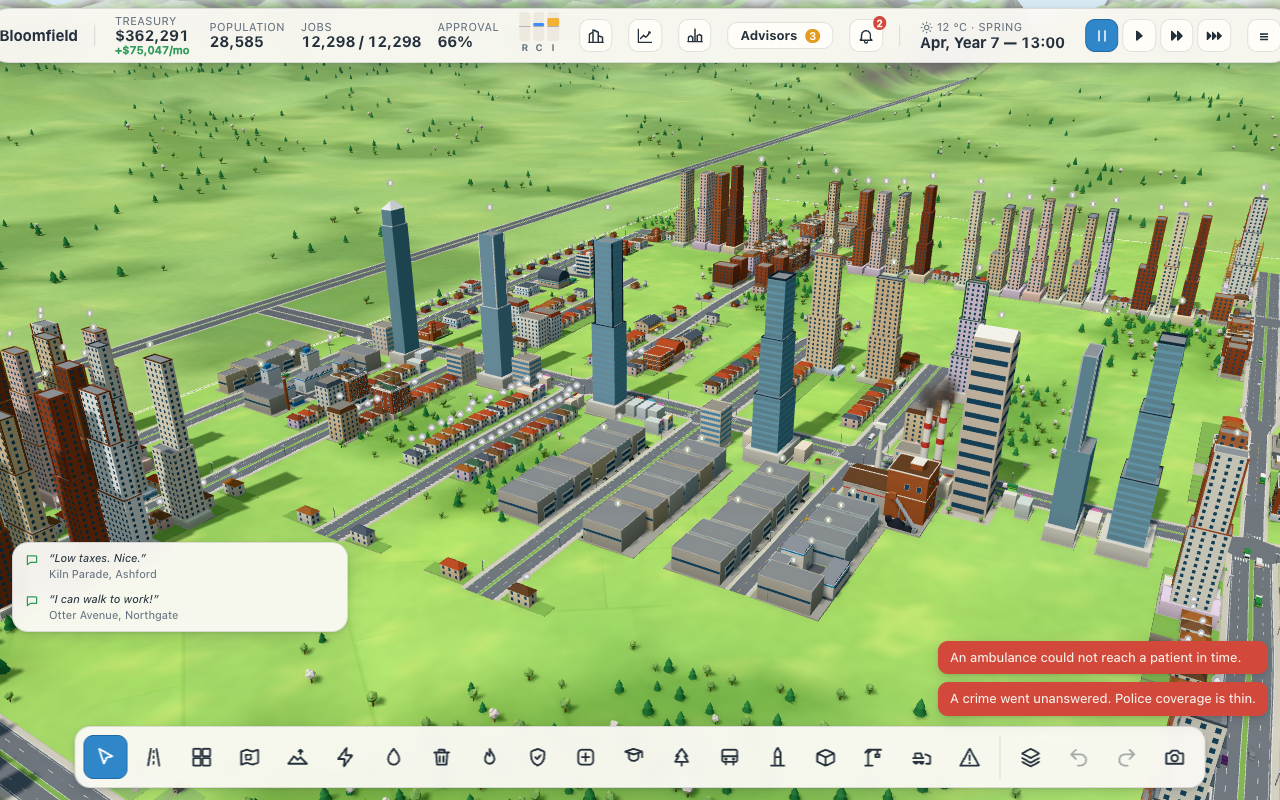
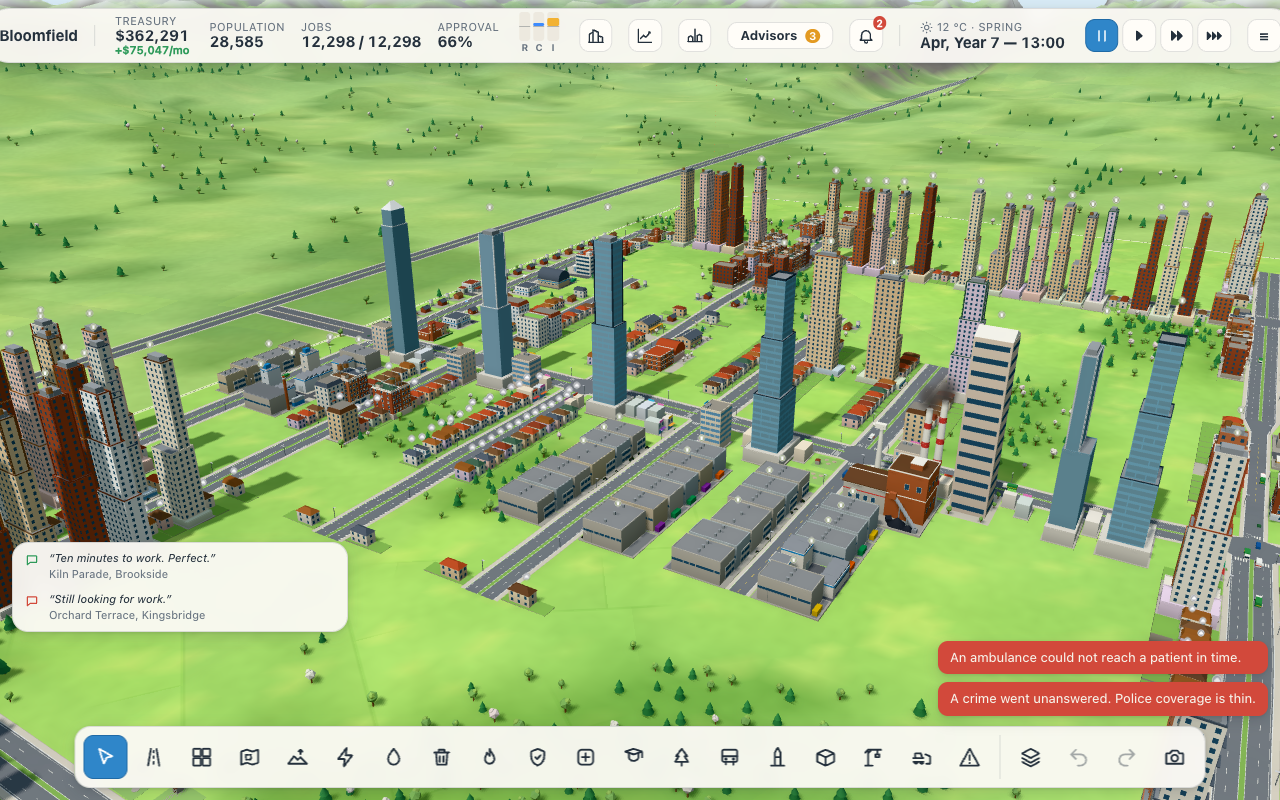
M28 complete: buildings and variety. Every building, generated ones included, fades through far and skyline versions; the generator refreshed (five tower silhouettes, crowns and spires, balcony bands, mansards, cornices, turrets, saltbox houses, false fronts, homes in more colours); the type in the 

diff --git a/PROGRESS.md b/PROGRESS.md
@@ -31,7 +31,7 @@ merges it into `main`, which deploys the live site at https://pxwom6.github.io/C
 - [x] M25 Baseline and model pipeline
 - [x] M26 Light and sky
 - [x] M27 Ground, lots and streets
-- [ ] M28 Buildings and variety
+- [x] M28 Buildings and variety
 
 ## Summary
 Citybloom is a complete, playable city builder in the browser. From the main menu (over a living
@@ -76,6 +76,20 @@ review after phase 2 retuned the late-game money, added a placeable regional rai
 cities, a grace for cities meeting seasons for the first time, and level-crossing barriers and
 trams that give way (DECISIONS, "Phase 2 review").
 
+**Phase 3 (graphics, M25–M28)** made it look the part without touching the simulation. The owner's
+hand-made building models (136 so far: every zoned type, 46 civic buildings, annexes) are checked
+against their spec, converted at build time and stand in wherever they fit, painted from the game's
+palettes, with far and skyline versions that fade in by a dither (M25). Light and sky: cascaded
+shadows fitted to the ground in view, soft occlusion in corners, a glow round lit windows at night,
+golden and blue hours, bounce light and haze, Neutral tone mapping (M26). Ground, lots and streets:
+grass with fields, hedgerows and worn paths, empty zoned land as a faint tint and outline, kerbs,
+zebra crossings, benches, bins and planters, and car parks, lawns and yards behind buildings (M27).
+Buildings: every generated building now has distant versions too, and the generator was refreshed
+(five tower silhouettes, crowns, spires, balcony bands, mansards, cornices, more colours) so no two
+neighbours look alike (M28). Every effect has a switch in the graphics quality. On an M5 MacBook
+Pro the heaviest view (the 110k city at night at 3× with a tornado) takes 9.2 ms a frame at High,
+against 22 at the start of the phase; the whole-city view draws 1.7M triangles where it drew 2.7M.
+
 ## Ideas for what's next
 1. **Real-hardware pass**: the rest of the list under "To check on the Mac" (the 100k city runs at
    60 fps and more on an M5 MacBook Pro, so per-building LOD isn't needed).
@@ -91,23 +105,20 @@ trams that give way (DECISIONS, "Phase 2 review").
    (ski resorts in winter, beaches in summer).
 7. **More specialisations** (education hub, gambling/entertainment, electronics) using the same
    building + economy pattern as M10.
-8. **Custom glTF models** through the existing asset registry (`src/render/assets/registry.ts`).
+8. **More hand-made models**: 8 m wide family houses and villas and 16 m versions of the 24 m
+   level-2 and -3 buildings would let models stand on the lots buildings actually grow on (PROGRESS,
+   "Models"); a procedural window shader would let distant homes' windows merge too.
 9. **Balance**: commercial demand runs a little low in small towns; the big-city running costs and
    the scenario star thresholds want a second look once real players have tried them.
 
 ## In progress
-M28 (buildings and variety) is next: every model in, the generator refreshed in the same style
-(more roof shapes, facade details and tower silhouettes), a distant version for every building
-including generated ones, and the whole-city view under 2.75M triangles (now 2.06M with shadows).
+Every milestone in SPEC.md, SPEC-2.md and SPEC-3.md is done. The phase wrap-up is next: the summary
+above, SPEC-3's section in SPEC_REVIEW, the README's screenshots, the social preview image, and a walk
+through the game at every zoom, by day and night and in each season, fixing whatever looks off.
 
 ## Next tasks
-1. M28 Buildings and variety. Most level-2 and -3 buildings stand on lots smaller than their type's
-   own (upgrades rarely widen), where the type's model can't fit, so they stay generated (17 % of
-   the bench city wears hand-made models): decide there whether a smaller sibling's model may
-   stand in. Generated buildings need far and skyline versions (they have one level today).
-2. Phase wrap-up: PROGRESS summary, SPEC_REVIEW, README screenshots, social preview, a walk through
-   every zoom, hour and season.
-3. The branch is local only until the owner pushes it (`git push -u origin phase-3`): this
+1. Phase 3 wrap-up (SPEC-3, "When every milestone is done").
+2. The branch is local only until the owner pushes it (`git push -u origin phase-3`): this
    machine's git has no GitHub credentials, so pushes from here fail.
 
 ## Models (phase 3)
@@ -144,8 +155,10 @@ it are free, which on a built-up street they aren't. So in played cities:
   (`R1x3` courtyard blocks, `C1x3`, `R2x2`/`R2x3`, `C2x2`/`C2x3`, …) appear only where a lot did widen
   (the tenement, 8 m wide, fits everywhere its type grows).
 - In the bench city 17 % of buildings wear hand-made models, in the menu's demo town 25 %
-  (`node scripts/dev/modelcensus.mjs <save>` lists them by type and lot). The rest are generated.
-  Whether a smaller sibling's model may stand in on a small lot is a question for M28.
+  (`node scripts/dev/modelcensus.mjs <save>` lists them by type and lot). The rest are generated,
+  refreshed in M28 to sit with them. A smaller sibling's model doesn't stand in on a lot its own
+  type's model can't fit (DECISIONS M28): 8 m wide versions of the family houses and villas, and
+  16 m versions of the 24 m level-2 and -3 buildings, are what would bring more of them into cities.
 
 ## Known issues
 - Photo mode's depth of field is a screen-space gather: fine for stills, but thin bright things right against a blurred background can show a faint halo, and saving at 2× takes up to a minute on this VM's software renderer (a fraction of a second on a GPU).
@@ -267,6 +280,29 @@ change): 110,174 at month 6, tick avg 0.24–0.27 ms, worst 15 ms (month 1); car
 greedy 420 / 16 %, neglectful 354 / 36 % at year 20. Checks: 381 unit tests, and all 41 e2e specs
 pass (`e2e/m27-ground.spec.ts` new; the crossings spec, which longer frames had made fail 2 runs in
 5, passes 8 in 8 after two fixes to visible cars at level crossings, DECISIONS M27).
+
+**M28 complete** (buildings and variety), run back to back with the phase-start build; new / start,
+average ms (95th percentiles in `bench-results/frames-m28-final*.log`):
+
+| | whole city | city | street | whole city, night | city, night | street, night | heavy |
+|---|---|---|---|---|---|---|---|
+| High | 8.0 / 10.3 | 11.0 / 7.1 | 8.0 / 4.5 | 10.2 / 10.3 | 11.8 / 7.0 | 8.5 / 4.5 | **9.2 / 22.3** |
+| Medium | 4.6 / 6.4 | 3.9 / 4.1 | 3.1 / 2.4 | 5.0 / 6.1 | 4.4 / 4.1 | 3.3 / 2.3 | 4.8 / 12.7 |
+| Low | 3.0 / 3.6 | 2.7 / 2.2 | 1.7 / 1.6 | 2.9 / 3.2 | 2.7 / 2.2 | 1.7 / 1.5 | 2.8 / 7.8 |
+
+The heavy view at High is 9.2 ms (inside 12; M27 10.8): with every building in the levels of detail
+the whole-city view draws 152 calls (289 at the start) and 1.73M triangles in its colour pass (2.68M).
+Medium and Low are faster than at the start in the whole-city and heavy views and at Medium's city
+zoom. Close up they are slower, which SPEC-3 asks them not to be: in runs alternating with the
+start's build, Medium's street level by 0.7 ms by day and 0.85 at night (its shadow maps,
+occlusion and glow from M26, now drawn 60 times a second close up, plus the refreshed buildings'
+detail), Low's street level by 0.1–0.2 ms and its city zoom at night by 0.35 (its city zoom by day
+is even). Every Medium view stays under 5 ms and every Low view under 3 ms (200–600 fps on this
+GPU); taking Medium's shadows to 30 times a second or dropping its occlusion would cost more in looks
+than it saves (DECISIONS M28). `bench.ts 6 --big` and `balance.ts 20` are identical to M27's (no sim
+change). Checks: 386 unit tests and all 42 e2e specs; `e2e/m28-buildings.spec.ts` loads the demo town
+through the load screen: 1,308 touching pairs, none drawn with the same model, no building drawn
+"plain", 0.90M triangles from the whole-city view.
 
 ## Real hardware (Phase 2 review)
 - The ~110k bench city on a MacBook Pro M5, High graphics, 3× speed: about 60 fps (58–65) in Safari in every view (whole city, mid-zoom, street level, night, a tornado), which is Safari's 60 fps cap; in Chrome at 120 Hz, 100–118 fps with 1.5–4.4 ms of frame work. 287 draw calls and 2.75M triangles at the whole-city view. Sim tick avg 0.6–0.8 ms, worst 6 ms, at 24 ticks a second: the worst ticks this VM measured (15–28 ms) are the VM, so the profile-guided pass on the matcher and happiness (review item 6) was dropped.

diff --git a/docs/DECISIONS.md b/docs/DECISIONS.md
@@ -441,3 +441,14 @@ One line each: what was decided and why. Newest at the bottom of each section.
 - **Yards only behind hand-made models**: the generator's buildings already fill their lots (houses had gardens, paths and drives; markets their car parks), so the new surfaces go where a hand-made model leaves the back of its lot bare. Cars, markings and crates only in the near level.
 - **Medians and verges follow the seasons and the snow on the fields** (they stayed summer green under snow); the per-road slush still covers asphalt and pavements only.
 
+### M28 Buildings and variety
+- **Generated distant versions from the same triangles, by marking detail**, rather than a second generator for far off: the near, far and skyline versions can't drift apart, and every generated building (zoned, civic, rubble, projects) fades through the levels as hand-made ones do.
+- **Windows stay in the far version**: they are 60–96 % of a generated building's triangles and what a building is from the middle distance (and at night). Far drops fine parts only (about 1–33 % by type); the skyline also merges runs of alike windows along a band (offices, industry, luxury flats: 68–80 % of near), not separate windows (flats and homes: 88–98 %), where merging would turn dots into stripes.
+- **Runs of alike windows, not one strip a floor**: a strip at the floor's average light read as a glowing pillar at night from far off.
+- **Skyline chunks stay 512 m**: 256 m halved the city view's building triangles (buildings past 520 m are drawn in both the far and skyline levels while their chunk spans the hand-over) but added draw calls, and the heavy view got slower (10.8 ms against 8.8). On this GPU draw calls cost more than triangles.
+- **The type in the generator's seed**: medium- and high-wealth offices (and other pairs of types) on the same lot with the same look drew the identical building, side by side in a city.
+- **Residential towers by wealth**: the bench city's well-off towers came out nearly all white. Pastels with a fifth brick for the less well off, white or pastel with a few brick for the middle, white or modern greys and three in ten glass for the rich. Brick at a quarter or more read too dark for the bright, warm style.
+- **No smaller sibling's model stands in on a lot its own type's model doesn't fit** (the question M25 left): a level's building keeps its own height and size, as its capacity and the skyline expect, and the refreshed generator carries the variety there. The hand-made share stays where M25 left it (17 % of the bench city, 25 % of the demo town); 8 m wide family houses and villas would let the low-density models appear (PROGRESS, "Models").
+- **"No identical neighbours" checked as touching buildings drawn with the very same model** (`getNeighbours`): none in the demo town's 1,308 touching pairs. Two looks of a type can still be alike in colour; the neighbour rule and the wider palettes make that rare.
+- **Medium and Low close up, a little slower than at the start, left so**: Medium's street level 0.7 ms by day and 0.85 at night, Low 0.1–0.35 ms (alternating runs). Medium's shadow maps close up were cut to 60 redraws a second (0.4 ms back); going to 30 would make moving cars' shadows trail, and dropping its occlusion saves only 0.1 ms. Every Medium view stays under 5 ms and every Low view under 3 ms, and both are well ahead of the start in the whole-city and heavy views, where weaker machines struggle most.
+- **The skyline versions keep parts 2 m or more across that carry colour** (balcony bands, awnings, signs, rooftop plant, yards, containers, pools), as M25's rule keeps shapes over about 2 m: dropping them changed 2.8 % of pixels at the far-to-skyline hand-over in the M25 spec's view (the limit is 2.5 %); now 1.9 %.

diff --git a/docs/SPEC_REVIEW.md b/docs/SPEC_REVIEW.md
@@ -347,3 +347,15 @@ Each phase-2 milestone mapped to where it's done. Filled in as milestones comple
 | Done when: a grown city at city zoom reads as a place rather than a grid | `docs/screenshots/m27-city.png` (before on the left, after on the right: the demo town and the bench city at city zoom, and street level) |
 | Done when: the frame budget holds | PROGRESS.md "Frame times": the heavy view at High under 12 ms; Medium and Low within noise of M26 (far below the start of the phase); fewer triangles than M26 in every view |
 
+## M28 Buildings and variety
+
+| Item | Where |
+|---|---|
+| Bring in every model added by then, and keep doing so | all 136 files in `assets/models/` pass `npm run models:check` and are in the game (PROGRESS.md, "Models"); none arrived during M27–M28 |
+| Refresh the generator in the same style for everything still generated (roof shapes, facade details, tower silhouettes) | `src/render/assets/models.ts`: towers in five silhouettes (setbacks, steps under a lit crown, twins, an offset pair, a crown with a spire or pyramid cap), corner piers, balcony bands, fins, water tanks; residential tower walls by wealth; mansards, cornices, stone ground floors and bay windows on flats; cornices, stepped parapets and turrets on offices; mansard and saltbox houses; false fronts on stores; `tests/generated.test.ts` ('towers come in several silhouettes'); `docs/screenshots/m28-towers.png` |
+| Give every building a distant version, generated ones included | `ModelBuilder.detail` and `build()` (`builder.ts`): far and skyline versions from the same triangles for every generated model; `lodChunks.ts` then draws none "plain"; `tests/generated.test.ts` (every zoned building, every civic one and rubble), `tests/handmade.test.ts`; `e2e/m28-buildings.spec.ts` (`getLod().buildings.plain` is 0 in a loaded city) |
+| The whole-city view ends with fewer triangles than 2.75M despite the new detail | `scripts/dev/passprobe.mjs`: the bench city's whole-city colour pass 1.73M triangles (start of the phase 2.68M); `e2e/m28-buildings.spec.ts` (under 2.75M in the demo town, through the load screen) |
+| Done when: the bench city at city zoom looks varied, with no identical neighbours | `docs/screenshots/m28-city-sheet.png` (before and after at city zoom and street level); `getNeighbours()`: no touching pair drawn with the same model (`e2e/m28-buildings.spec.ts`, the demo town's 1,308 pairs); the type now in the generator's seed (`tests/generated.test.ts`) |
+| Done when: the overview draws fewer triangles than at the start of this phase | as above: 1.73M against 2.68M (colour pass), PROGRESS.md "Frame times" |
+| Done when: the frame budget holds | PROGRESS.md "Frame times": the heavy view at High 9.2 ms (12 allowed); Medium and Low faster than at the start in the whole-city and heavy views; close up a little slower (Medium's street level 0.7–0.85 ms, Low 0.1–0.35 ms), a deviation from "no slower" recorded in DECISIONS M28 |
+

diff --git a/DESIGN.md b/DESIGN.md
@@ -1305,6 +1305,37 @@ Markings, cars and clutter only in the near level; the surfaces in far; nothing 
 Generated terraces get a path to each door between strips of lawn with low hedges; generated
 flats a path to the entrance between lawns.
 
+### 4.6 Buildings and variety (phase 3, M28)
+
+**Distant versions for generated buildings** (`src/render/assets/builder.ts`). Every triangle the
+generator draws carries a mask of the levels it is drawn at; `detail(level, fn)` narrows it for a
+block of drawing: `NEAR_ONLY` (doors, cars, fences, garden trees, terrace umbrellas, small roof
+units), `IN_FAR` (balconies and balcony bands, signs, awnings, rooftop plant, paths and lawns,
+dormers, chimneys) and `SKY_ONLY` (stand-ins). `build()` returns the near model with `far` and `sky`
+filtered from the same triangles, so every generated building (zoned, civic, rubble, a project's
+site works) fades through the levels exactly as a hand-made one (`lodChunks.ts`; nothing is drawn
+"plain" any more). Windows stay in every level, since they are most of a generated building; along a
+band of windows (offices, industry, luxury flats) the skyline draws each run of neighbouring
+windows that are alike (lit or dark) as one pane across their gaps, lit at their average. Each
+window's light is drawn from the building's random stream once, so the near, far and skyline
+versions light the same windows.
+
+**The generator refreshed** (`src/render/assets/models.ts`). The seed includes the type (zone,
+density, wealth): two types on the same lot used to draw the same building. Towers stand on a
+podium (one or two floors, with a parapet) in one of five silhouettes: a slab with setbacks, a
+wedding cake of three steps under a lit crown band and a mast, twin towers (on 24 m lots), a tall
+block beside a lower one, or a slab whose top floors step in under a spire or a pyramid cap; some
+get coloured corner piers, homes balcony bands (every floor or every other), offices fins close up;
+roofs carry plant, masts or a water tank on legs. Residential towers take their walls by wealth:
+pastels and some brick, white and modern greys for the rich, and glass with banded windows for a
+few luxury ones. Mid-rise flats get mansard roofs with dormers, cornices, stone ground floors under
+brick and corner bay windows; mid-rise offices a cornice, a stepped parapet or a corner turret;
+houses now and then a mansard or a saltbox roof; stores a false front.
+
+**Neighbours.** `BuildingRenderer.look` already moves a building off a look its touching neighbour
+of the same type and size wears; with the type in the seed, buildings of different types no longer
+share models either. Test API `getNeighbours()` counts touching pairs drawn with the same model.
+
 ## 5. UI
 
 Preact components over the canvas. All colours, type scale, spacing, radii and shadows are CSS custom
